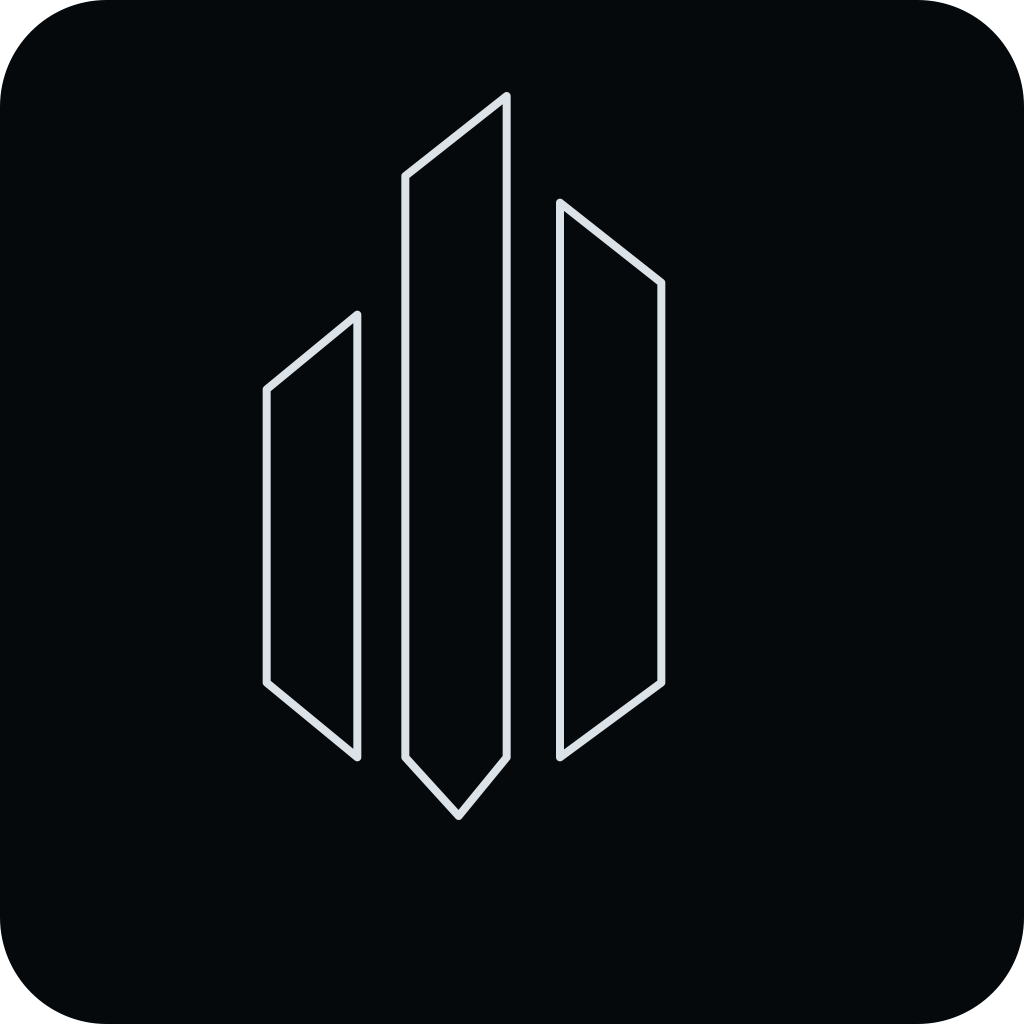
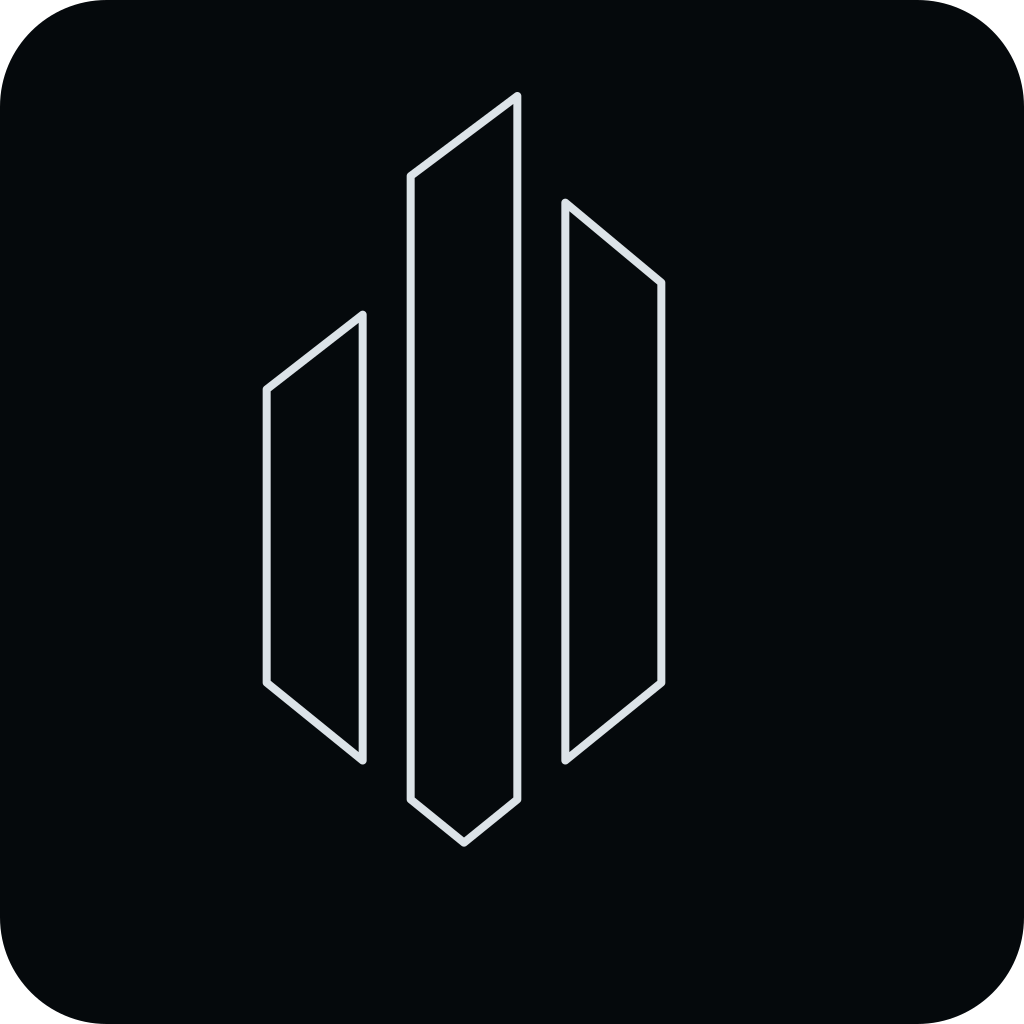
fix(brand): align Foundation mark geometry

Changed region(s): [[0.3125, 0.0938, 0.625, 0.8438], [0.2812, 0.3438, 0.3125, 0.375]]

diff --git a/ui/src/pages/BoardChat.tsx b/ui/src/pages/BoardChat.tsx
@@ -905,7 +905,7 @@ export function BoardChat() {
               {/* Status bar — always visible while sending, independent from the chat bubble */}
               {sending && (
                 <div className="flex items-center gap-2 pl-1 text-xs text-muted-foreground">
-                  <img src="/foundation-mark.svg?v=pillar-3" alt="" className="inline-block shrink-0" style={{ width: 14, height: 14 }} />
+                  <img src="/foundation-mark.svg?v=pillar-4" alt="" className="inline-block shrink-0" style={{ width: 14, height: 14 }} />
                   <span>{statusText || "Thinking..."}</span>
                   {elapsedSec > 0 && (
                     <span className="opacity-50">{elapsedSec.toFixed(1)}s</span>

diff --git a/ui/index.html b/ui/index.html
@@ -9,8 +9,8 @@
     <!-- PAPERCLIP_RUNTIME_BRANDING_START -->
     <!-- PAPERCLIP_RUNTIME_BRANDING_END -->
     <!-- PAPERCLIP_FAVICON_START -->
-    <link rel="icon" href="/foundation-mark.svg?v=pillar-3" type="image/svg+xml" sizes="any" />
-    <link rel="shortcut icon" href="/foundation-mark.svg?v=pillar-3" type="image/svg+xml" />
+    <link rel="icon" href="/foundation-mark.svg?v=pillar-4" type="image/svg+xml" sizes="any" />
+    <link rel="shortcut icon" href="/foundation-mark.svg?v=pillar-4" type="image/svg+xml" />
     <!-- PAPERCLIP_FAVICON_END -->
     <link rel="apple-touch-icon" sizes="180x180" href="/apple-touch-icon.png" />
     <link rel="manifest" href="/site.webmanifest" crossorigin="use-credentials" />

diff --git a/server/src/services/assurance/renderers.ts b/server/src/services/assurance/renderers.ts
@@ -93,9 +93,9 @@ export function renderAssurancePdf(input: {
     const point = (sourceX: number, sourceY: number) =>
       `${pdfNumber(x + (sourceX - 50) * scale)} ${pdfNumber(top - (sourceY - 18) * scale)}`;
     const polygons = [
-      [[50, 73], [67, 59], [67, 142], [50, 128]],
-      [[76, 33], [95, 18], [95, 153], [76, 168]],
-      [[105, 38], [124, 53], [124, 119], [105, 134]],
+      [[50, 73], [68, 59], [68, 142.595], [50, 128]],
+      [[77, 33], [97, 18], [97, 149.892], [87, 158], [77, 149.892]],
+      [[106, 38], [124, 53], [124, 128], [106, 142.595]],
     ];
     for (const polygon of polygons) {
       const [first, ...rest] = polygon;

diff --git a/server/src/ui-branding.ts b/server/src/ui-branding.ts
@@ -4,8 +4,8 @@ const RUNTIME_BRANDING_BLOCK_START = "<!-- PAPERCLIP_RUNTIME_BRANDING_START -->"
 const RUNTIME_BRANDING_BLOCK_END = "<!-- PAPERCLIP_RUNTIME_BRANDING_END -->";
 
 const DEFAULT_FAVICON_LINKS = [
-  '<link rel="icon" href="/foundation-mark.svg?v=pillar-3" type="image/svg+xml" sizes="any" />',
-  '<link rel="shortcut icon" href="/foundation-mark.svg?v=pillar-3" type="image/svg+xml" />',
+  '<link rel="icon" href="/foundation-mark.svg?v=pillar-4" type="image/svg+xml" sizes="any" />',
+  '<link rel="shortcut icon" href="/foundation-mark.svg?v=pillar-4" type="image/svg+xml" />',
 ].join("\n");
 
 export type WorktreeUiBranding = {

diff --git a/ui/src/components/FoundationBrand.tsx b/ui/src/components/FoundationBrand.tsx
@@ -17,7 +17,7 @@ export function FoundationBrand({ compact = false, className }: FoundationBrandP
       )}
     >
       <span className="flex size-7 shrink-0 items-center justify-center" aria-hidden="true">
-        <img src="/foundation-mark.svg?v=pillar-3" alt="" className="size-6" />
+        <img src="/foundation-mark.svg?v=pillar-4" alt="" className="size-6" />
       </span>
       <span className={compact ? SIDEBAR_RAIL_HIDDEN_LABEL : "min-w-0 leading-none"}>
         <span className="block truncate text-(length:--text-compact) font-semibold tracking-tight">

diff --git a/server/src/__tests__/ui-branding.test.ts b/server/src/__tests__/ui-branding.test.ts
@@ -100,7 +100,7 @@ describe("ui branding", () => {
     expect(branded).not.toContain('href="/favicon.svg"');
 
     const defaultHtml = applyUiBranding(TEMPLATE, {});
-    expect(defaultHtml).toContain('href="/foundation-mark.svg?v=pillar-3"');
+    expect(defaultHtml).toContain('href="/foundation-mark.svg?v=pillar-4"');
     expect(defaultHtml).not.toContain('href="/favicon.svg"');
     expect(defaultHtml).not.toContain('name="paperclip-worktree-name"');
   });

diff --git a/ui/src/components/PaperclipLockup.tsx b/ui/src/components/PaperclipLockup.tsx
@@ -22,7 +22,7 @@ export function PaperclipLockup({
       aria-label={decorative ? undefined : title}
       focusable="false"
     >
-      <image href="/foundation-mark.svg?v=pillar-3" x="0" y="0" width="32" height="32" />
+      <image href="/foundation-mark.svg?v=pillar-4" x="0" y="0" width="32" height="32" />
       <text
         x="42"
         y="22"

diff --git a/ui/src/components/AnimatedPaperclipIcon.tsx b/ui/src/components/AnimatedPaperclipIcon.tsx
@@ -9,7 +9,7 @@ export function AnimatedPaperclipIcon({ className, ...props }: SVGProps<SVGSVGEl
       aria-hidden="true"
       {...props}
     >
-      <image href="/foundation-mark.svg?v=pillar-3" width="80" height="80" />
+      <image href="/foundation-mark.svg?v=pillar-4" width="80" height="80" />
     </svg>
   );
 }
